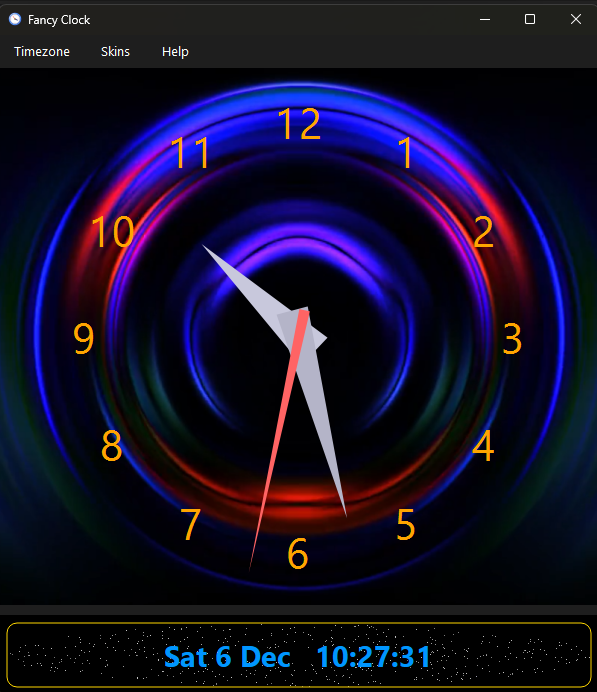
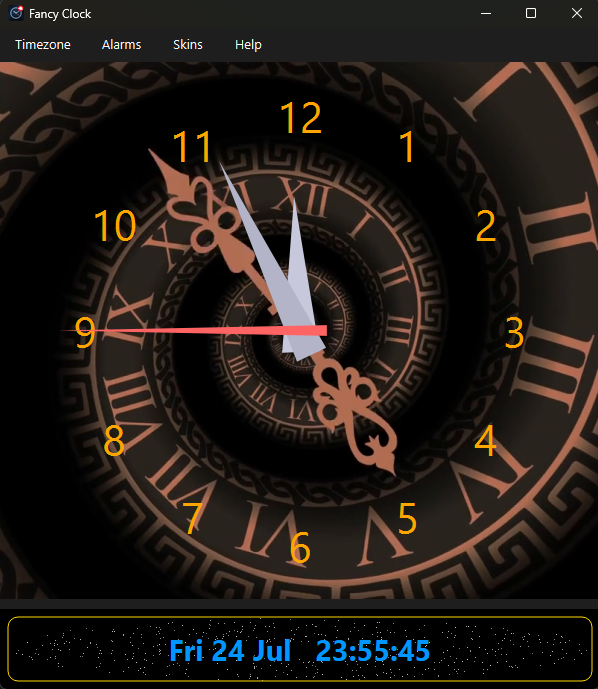
Add refreshed screenshots including the alarm editor to README and site

diff --git a/docs/index.html b/docs/index.html
@@ -418,7 +418,7 @@
         </p>
 
         <figure class="hero-shot">
-            <img src="fancyclock-screenshot.png" width="340" height="394" loading="lazy" decoding="async"
+            <img src="fancyclock-screenshot.png" width="340" height="392" loading="lazy" decoding="async"
                  alt="Fancy Clock running on the desktop in analog mode with an animated skin behind the dial">
             <figcaption>Analog mode with an animated skin behind the dial.</figcaption>
         </figure>
@@ -477,9 +477,9 @@
             <p class="lead">The alarm experience you expect from a phone, without the phone.</p>
 
             <figure class="hero-shot">
-                <img src="fancyclock-alarms-screenshot.png" width="340" height="300" loading="lazy" decoding="async"
-                     alt="The Fancy Clock alarms manager with colour-coded alarms and a clock-face time picker">
-                <figcaption>Colour-coded alarms with a clock-face time picker.</figcaption>
+                <img src="fancyclock-alarm-screenshot.png" width="340" height="533" loading="lazy" decoding="async"
+                     alt="The Fancy Clock alarm editor with a clock-face time picker, weekday chips and colour swatches">
+                <figcaption>The alarm editor: clock-face picker, weekday chips and colours.</figcaption>
             </figure>
 
             <div class="grid">

diff --git a/README.md b/README.md
@@ -3,7 +3,7 @@
 </p>
 
 <p align="center">
-  <img src="./docs/fancyclock-alarms-screenshot.png" alt="Fancy Clock Alarms" width="400" />
+  <img src="./docs/fancyclock-alarm-screenshot.png" alt="Fancy Clock Alarms" width="400" />
 </p>
 
 <p align="center">
